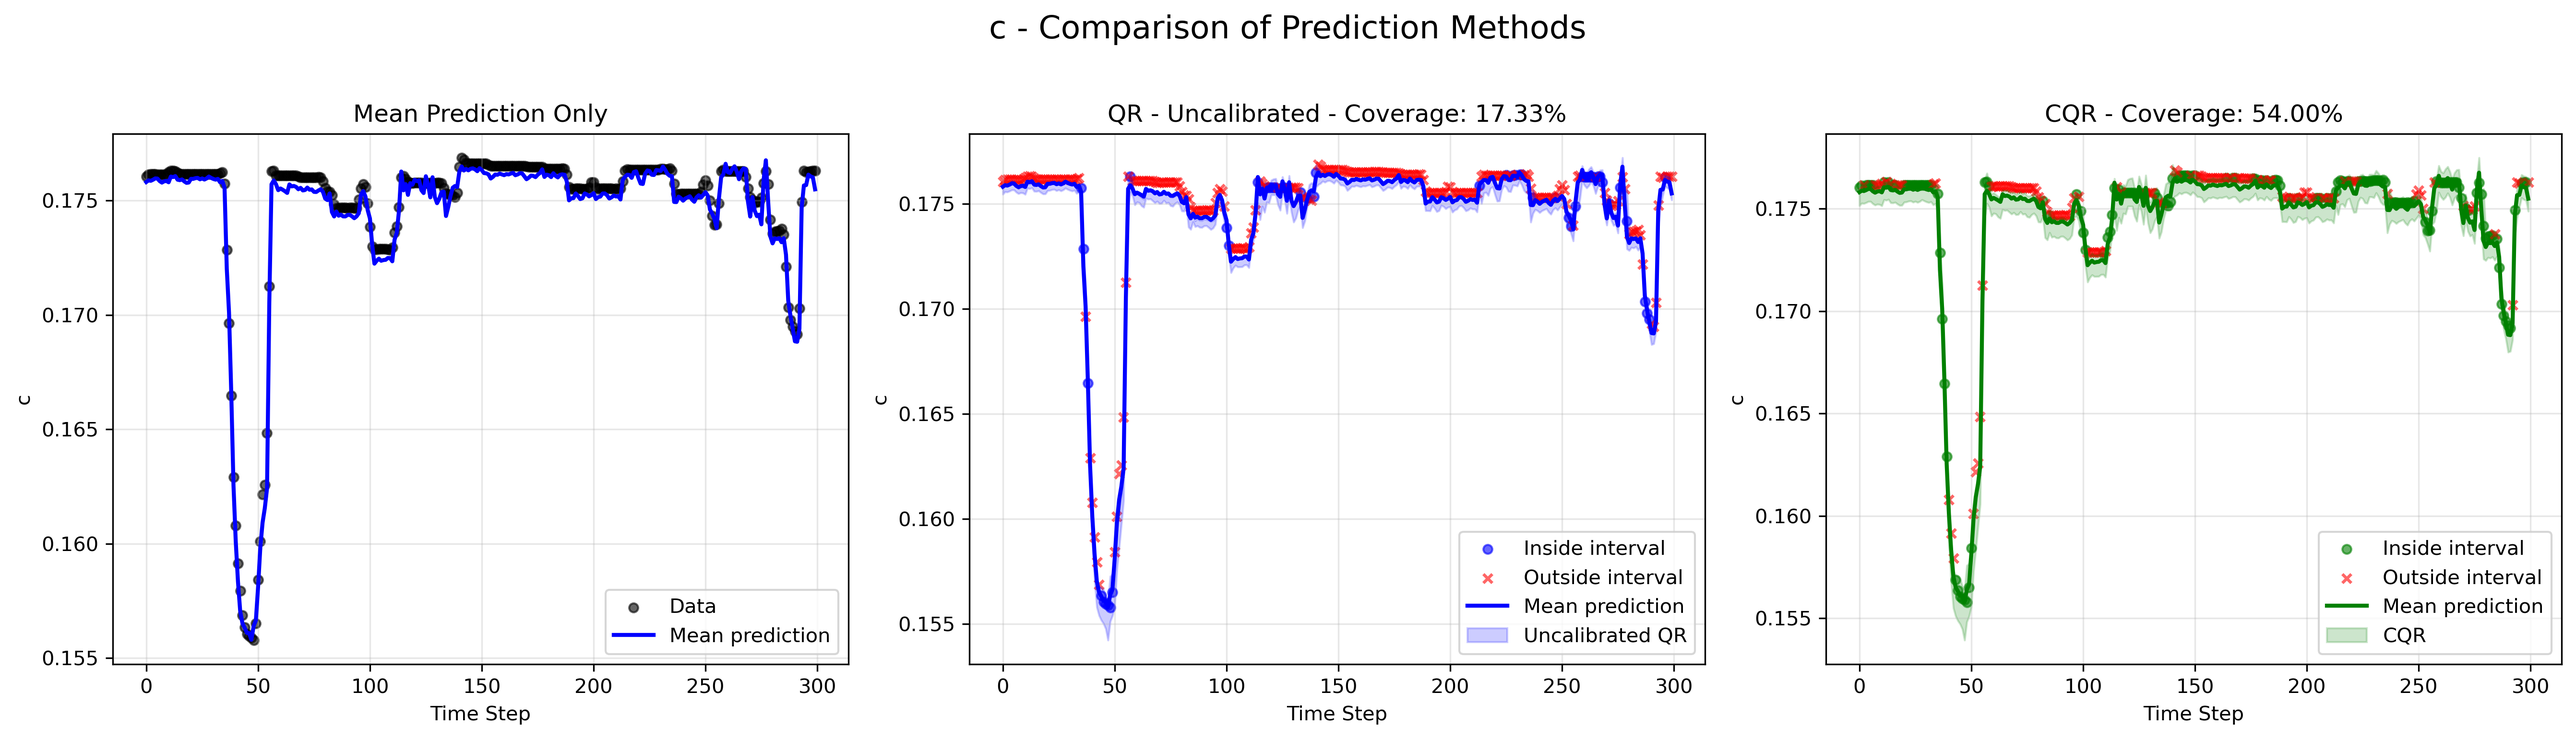
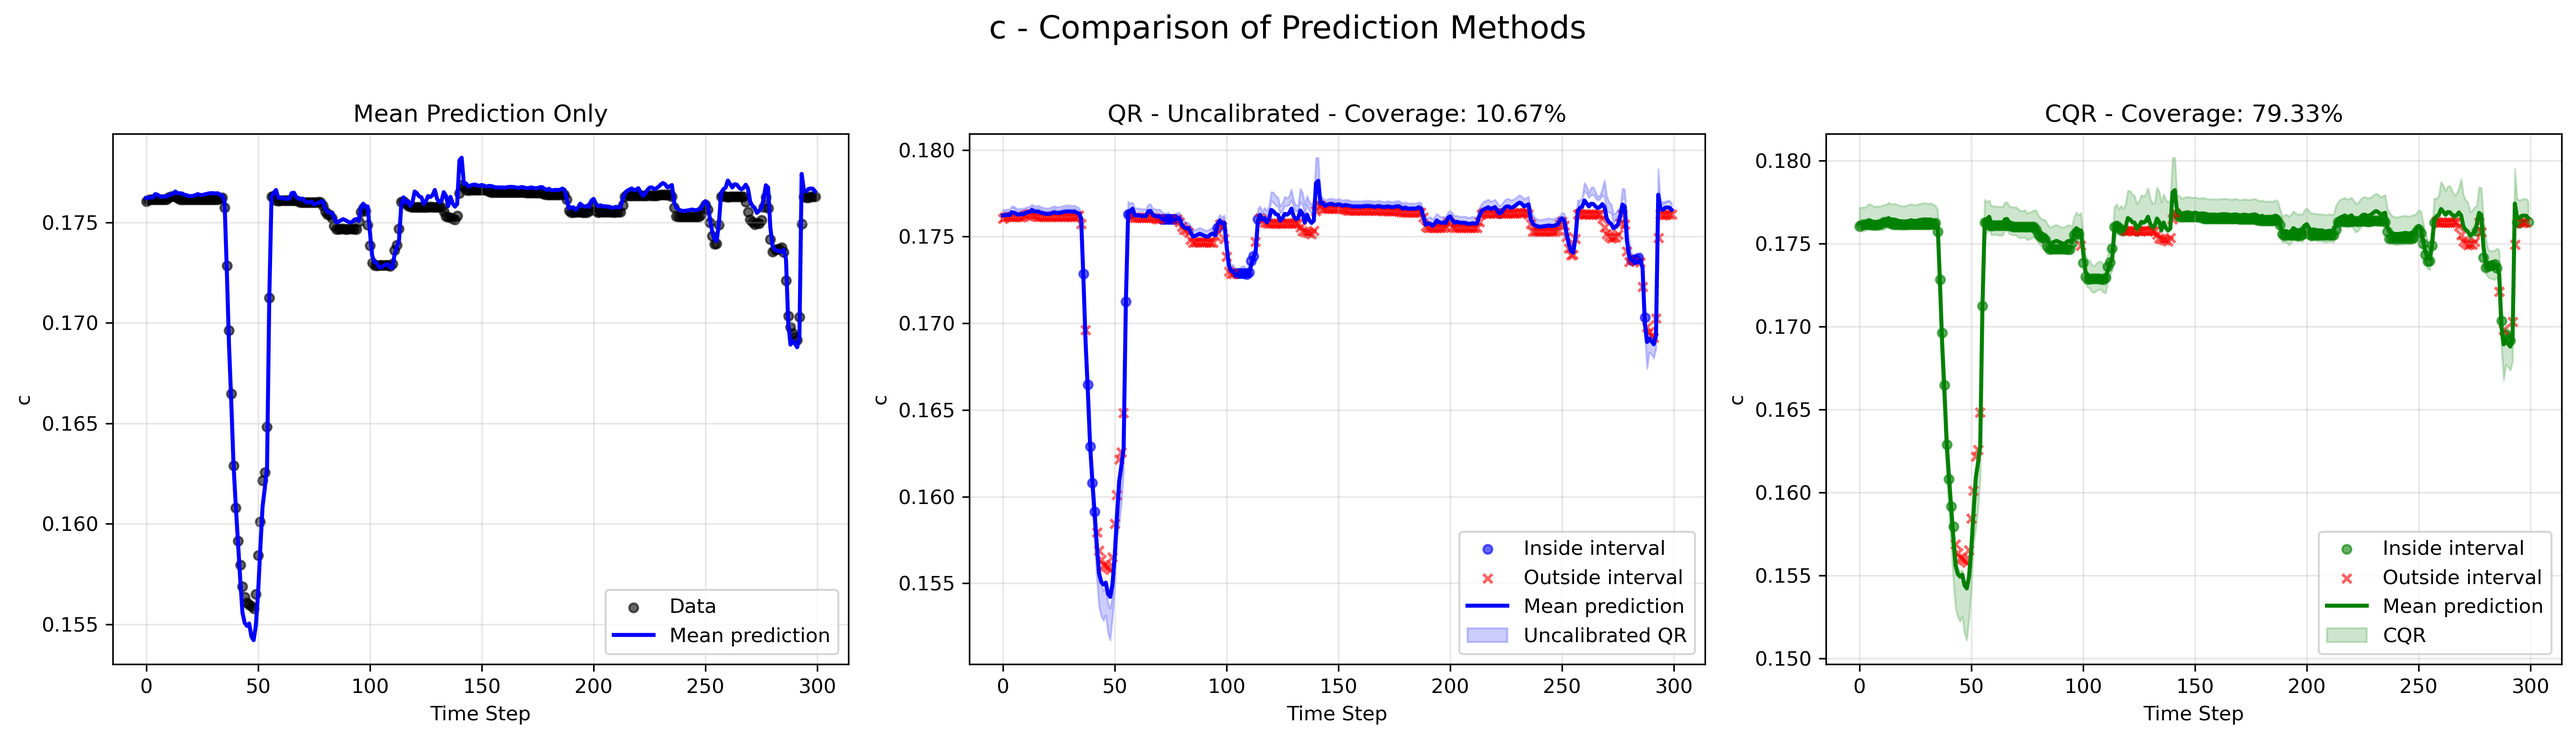
Update scaler function

diff --git a/tools/cqr/cqr_simple.py b/tools/cqr/cqr_simple.py
@@ -17,11 +17,9 @@ sys.path.insert(0, str(project_root))
 sys.path.insert(0, str(project_root / 'tools'))
 
 from models.ANN.narx_model import get_model
-from train import clean_batch, window_batch_data, clean_and_filter
+from train import clean_batch, window_batch_data, CONTROL_COLS, STATE_NAMES
 
 
-CONTROL_COLS = 7
-STATE_NAMES = ['c', 'T_PM', 'd50', 'd90', 'd10', 'T_TM']
 STATE_COLS = len(STATE_NAMES)
 DEVICE = torch.device("cuda" if torch.cuda.is_available() else "cpu")
 TAU_LOW = 0.1
@@ -354,6 +352,22 @@ def plot_selected_file_results(selected_results, save_dir):
         
         print(f"{state_label}: Uncalibrated {uncal_coverage:.2f}% → CQR {cal_coverage:.2f}%")
 
+def initialize_scaler(train_files):
+    """Initialize and fit scaler on training data"""
+    scaler = MinMaxScaler()
+    
+    all_cleaned_data = []
+    for file_path in train_files:
+        cleaned = clean_batch(file_path, sm_filt=True)
+        all_cleaned_data.append(cleaned)
+    
+    # Fit scaler on all concatenated data
+    concatenated_data = np.concatenate(all_cleaned_data, axis=0)
+    scaler.fit(concatenated_data)
+    
+    print(f"Scaler fitted on {len(concatenated_data)} samples from {len(train_files)} files")
+    return scaler
+
 def run_cqr_pipeline(model_path, data_path, results_dir, window_size):
     cluster_name = os.path.basename(data_path.rstrip("/"))
     save_dir = os.path.join(results_dir, "cqr_results", cluster_name)
@@ -376,12 +390,7 @@ def run_cqr_pipeline(model_path, data_path, results_dir, window_size):
     model.load_state_dict(torch.load(model_path, map_location=DEVICE))
     
     # Initialize and fit scaler
-    scaler = MinMaxScaler()
-    
-    for i, file in enumerate(train_files[:10]):
-        raw = np.loadtxt(file, skiprows=1)
-        _, _, cleaned = clean_and_filter(raw)
-        scaler.partial_fit(cleaned)
+    scaler = initialize_scaler(train_files)
     
     # Generate error dataset
     inputs, errors_dict = generate_error_dataset(model, train_files, window_size, scaler)
